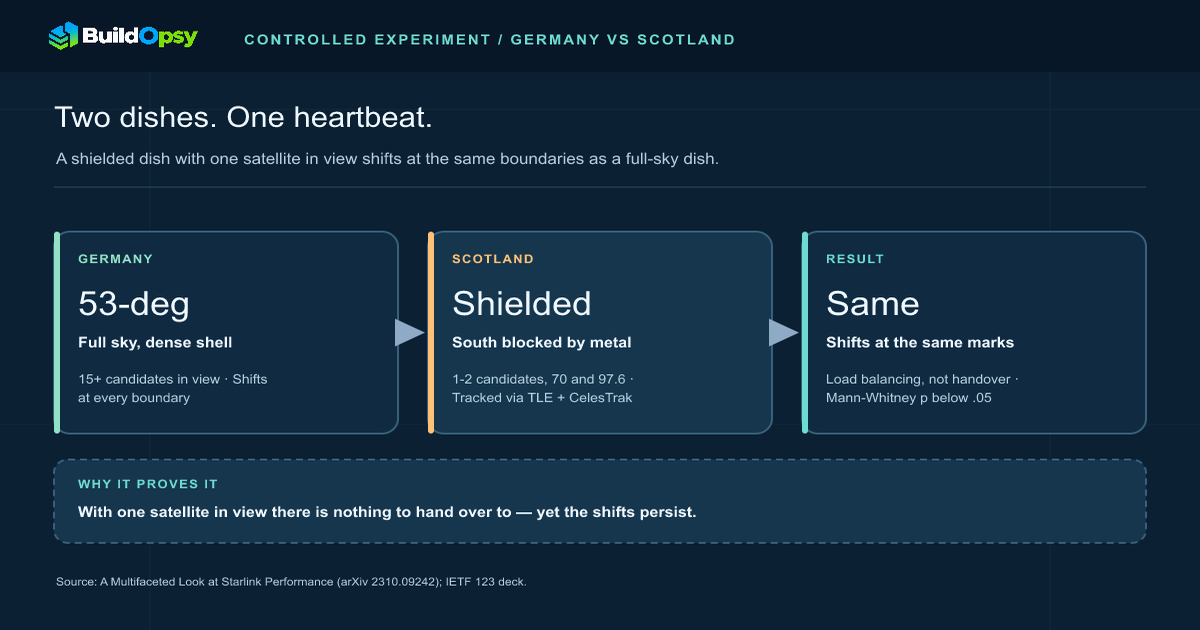
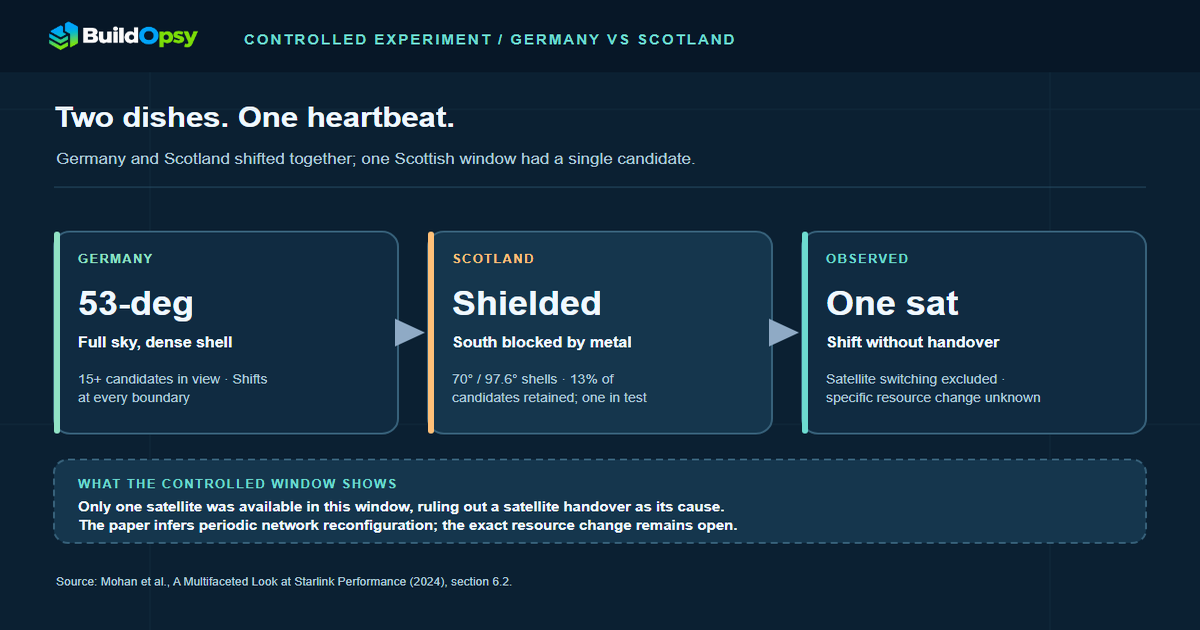
fix: final source alignment in Starlink pair - scheduler measured preferences and model accuracy, AAU boundary windows in-cost-section, named teams, handover-ruled-out framing synced across copy and experiment figure

diff --git a/system-design/starlink-15-second-scheduler-teardown.html b/system-design/starlink-15-second-scheduler-teardown.html
@@ -3,12 +3,12 @@
 <head>
   <meta charset="UTF-8">
   <meta name="viewport" content="width=device-width, initial-scale=1.0">
-  <meta name="description" content="Starlink reallocates satellites to terminals every 15 seconds on boundaries synchronized worldwide. Teardown of the global scheduler, the shielded-dish proof it is load balancing not handover, and what the rhythm costs realtime apps.">
+  <meta name="description" content="Starlink reallocates satellites to terminals every 15 seconds on boundaries synchronized worldwide. Teardown of the global scheduler, the shielded-dish experiment that rules out handover, and what the rhythm costs realtime apps.">
   <meta name="author" content="Mukul Kumar Mishra">
   <link rel="canonical" href="https://buildopsy.com/system-design/starlink-15-second-scheduler-teardown.html">
   <meta property="og:type" content="article">
   <meta property="og:title" content="Starlink's 15-Second Heartbeat: The Global Scheduler Moving Every Dish at Once">
-  <meta property="og:description" content="Every 15 seconds, every dish gets re-examined — at :12, :27, :42 and :57 past the minute, worldwide. Why it is load balancing, not handover, and what the rhythm bills.">
+  <meta property="og:description" content="Every 15 seconds, every dish gets re-examined — at :12, :27, :42 and :57 past the minute, worldwide. Handover ruled out at the dish, a global load balancer found — and what the rhythm bills.">
   <meta property="og:image" content="https://buildopsy.com/images/articles/starlink-scheduler-meme.png">
   <meta property="og:image:alt" content="Diagram of Starlink's 15-second global scheduler: reallocation slots, synchronized boundaries, and single-satellite proof">
   <meta property="og:image:type" content="image/png">
@@ -29,7 +29,7 @@
   <script>if (localStorage.getItem('pf-theme') !== 'light') document.documentElement.classList.add('dark');</script>
   <link rel="stylesheet" href="../css/styles.css">
   <script src="https://unpkg.com/lucide@latest" defer></script>
-  <script type="application/ld+json">{"@context":"https://schema.org","@type":"TechArticle","headline":"Starlink's 15-Second Heartbeat: The Global Scheduler Moving Every Dish at Once","description":"A source-led teardown of Starlink's globally synchronized 15-second scheduler: slot allocation, the shielded-dish experiment proving load balancing over handover, hierarchical controllers, and realtime-app impact.","author":{"@type":"Person","name":"Mukul Kumar Mishra","url":"https://buildopsy.com/about.html#author-mukul"},"datePublished":"2026-10-11","dateModified":"2026-10-13","mainEntityOfPage":{"@type":"WebPage","@id":"https://buildopsy.com/system-design/starlink-15-second-scheduler-teardown.html"},"keywords":"Starlink scheduler, LEO handover, load balancing, 15-second reconfiguration, satellite MAC, CelesTrak, Mukul Kumar Mishra","publisher":{"@type":"Organization","name":"Buildopsy","url":"https://buildopsy.com/","logo":{"@type":"ImageObject","url":"https://buildopsy.com/images/logo.png"}},"image":"https://buildopsy.com/images/articles/starlink-scheduler-meme.png"}</script>
+  <script type="application/ld+json">{"@context":"https://schema.org","@type":"TechArticle","headline":"Starlink's 15-Second Heartbeat: The Global Scheduler Moving Every Dish at Once","description":"A source-led teardown of Starlink's globally synchronized 15-second scheduler: slot allocation, the shielded-dish experiment ruling out handover, hierarchical controllers, and realtime-app impact.","author":{"@type":"Person","name":"Mukul Kumar Mishra","url":"https://buildopsy.com/about.html#author-mukul"},"datePublished":"2026-10-11","dateModified":"2026-10-13","mainEntityOfPage":{"@type":"WebPage","@id":"https://buildopsy.com/system-design/starlink-15-second-scheduler-teardown.html"},"keywords":"Starlink scheduler, LEO handover, load balancing, 15-second reconfiguration, satellite MAC, CelesTrak, Mukul Kumar Mishra","publisher":{"@type":"Organization","name":"Buildopsy","url":"https://buildopsy.com/","logo":{"@type":"ImageObject","url":"https://buildopsy.com/images/logo.png"}},"image":"https://buildopsy.com/images/articles/starlink-scheduler-meme.png"}</script>
 </head>
 <body class="site">
   <header class="topbar"><div class="wrap"><a class="brand brand-logo" href="../index.html"><img loading="eager" fetchpriority="high" decoding="async" class="logo-dark" src="../images/logo.png" alt="Buildopsy" width="2078" height="757"><img loading="eager" decoding="async" class="logo-light" src="../images/logo-white.png" alt="Buildopsy" width="1894" height="548" aria-hidden="true"></a><nav class="topnav" id="topnav"><a href="index.html" class="on">System Design</a><a href="ai-slop.html">AI Slop Watch</a><a href="../calculators.html">Calculators</a><a href="course.html">Courses</a><a href="../pricing.html">Pricing</a></nav><div class="topbar-actions"><button class="iconbtn" id="themeToggle" title="Toggle light/dark theme" aria-label="Toggle theme"><i data-lucide="sun" class="ic-sun"></i><i data-lucide="moon" class="ic-moon" style="display:none;"></i></button><button class="iconbtn navToggle" id="navToggle" aria-label="Toggle menu" aria-expanded="false"><i data-lucide="menu"></i></button></div></div></header>
@@ -39,7 +39,7 @@
       <div style="display:flex;flex-wrap:wrap;align-items:center;gap:12px;margin-bottom:16px;"><span class="fl-tag">Satellite Network Scheduling</span><span class="chip">October 2026</span><span class="chip">19 min read</span></div>
       <h1 class="page-title" style="font-family:var(--font-serif);font-weight:700;font-size:clamp(1.8rem,4vw,2.6rem);color:var(--heading);line-height:1.25;">Starlink's 15-Second Heartbeat: The Global Scheduler Moving Every Dish at Once</h1>
       <p style="font-family:var(--font-serif);font-size:1.08rem;line-height:1.75;color:var(--mist);margin:14px 0 0;">The July <a href="starlink-core-network-outage-postmortem.html">core outage</a> showed what happens when Starlink's ground stops; the <a href="starlink-latency-whitepaper-teardown.html">latency teardown</a> priced the milliseconds when it runs. This third piece explains the rhythm underneath both: every 15 seconds, at the 12th, 27th, 42nd, and 57th second of every minute, the network re-examines every dish on Earth at once.</p>
-      <p class="fl-desc" style="margin-top:12px;"><strong>TL;DR:</strong> Independent measurement teams found Starlink reallocating satellites to terminals in globally synchronized 15-second slots, with latency and throughput shifting at slot boundaries worldwide. A shielded-dish experiment proves the shifts are load balancing, not satellite handover — and that distinction decides how you monitor, what transport you run, and where your p99 goes. SpaceX never published the algorithm, so internals below are labeled as measured, inferred, or modeled.</p>
+      <p class="fl-desc" style="margin-top:12px;"><strong>TL;DR:</strong> Independent measurement teams found Starlink reallocating satellites to terminals in globally synchronized 15-second slots, with latency and throughput shifting at slot boundaries worldwide. A shielded-dish experiment rules satellite handover out, and the allocation evidence points to a global load balancer as the surviving explanation — and that distinction decides how you monitor, what transport you run, and where your p99 goes. SpaceX never published the algorithm, so internals below are labeled as measured, inferred, or modeled.</p>
       <div class="grid4" style="margin-top:24px;"><div class="stat" style="padding:14px;"><div class="lbl">Slot length</div><div style="font-weight:700;color:var(--paper);margin-top:4px;font-size:0.9rem;">15 seconds</div></div><div class="stat" style="padding:14px;"><div class="lbl">Boundaries</div><div style="font-weight:700;color:var(--paper);margin-top:4px;font-size:0.9rem;">:12/:27/:42/:57</div></div><div class="stat" style="padding:14px;"><div class="lbl">Sync scope</div><div style="font-weight:700;color:var(--paper);margin-top:4px;font-size:0.9rem;">Global</div></div><div class="stat" style="padding:14px;"><div class="lbl">Cause</div><div style="font-weight:700;color:var(--paper);margin-top:4px;font-size:0.9rem;">Load balancing</div></div></div>
       <p style="font-family:var(--font-body);font-size:0.78rem;color:var(--mist);margin:18px 0 0;">By Mukul Kumar Mishra · Evidence-led system design teardown · Updated October 13, 2026</p>
     </header>
@@ -58,12 +58,12 @@
         <div class="callout"><strong>The uncomfortable truth:</strong> the obvious explanation had a control experiment run against it, and lost. Every monitoring dashboard that labels these shifts "handover" is misdiagnosing the network every 15 seconds, four times a minute, forever.</div>
       </section>
       <section><h2>2. The Architecture: Two Controllers, One Rhythm</h2>
-        <p>The measurement papers converge on a two-tier design familiar from terrestrial WAN traffic engineering. First, a global controller allocates satellites to terminals every 15 seconds, weighing load, geospatial conditions, and even satellite charge state; a SpaceX FCC filing describing such a scheduler predates the measurements, and the observed periodicity matches it. Second, an on-satellite controller schedules the flows of its assigned terminals — visible as parallel latency bands a few milliseconds apart inside each slot, the signature of round-robin medium-access control, also consistent with the FCC filing.</p>
+        <p>The measurement papers converge on a two-tier design familiar from terrestrial WAN traffic engineering. First, a global controller allocates satellites to terminals every 15 seconds, weighing load, geospatial conditions, and even satellite charge state; a SpaceX FCC filing describing such a scheduler predates the measurements, and the observed periodicity matches it. Measured, its politics become arithmetic: with 35–44 satellites visible per slot on average, the scheduler picks the high ones (median elevation 22.9° above the satellites it passes over), tilts its picks north of the dish, prefers newer launch batches, and chooses sunlit satellites 72.3% of the time when a sunlit option exists — a policy that reads as energy and hardware-longevity budgeting, not geography alone. Second, an on-satellite controller schedules the flows of its assigned terminals — visible as parallel latency bands a few milliseconds apart inside each slot, the signature of round-robin medium-access control, also consistent with the FCC filing.</p>
         <p>The slot has geometry. IETF measurement decks report terminals assigned in 15-second slots with phased-array tracking across 11 degrees of arc per slot, each spacecraft splitting 2,000 MHz of downlink into eight 250 MHz channels across dozens of spot beams. Within a slot, latency drifts gently with the satellite's track; at the boundary, the allocation can change wholesale. Stable inside, step at the edge — that is a scheduler's waveform, not a handover's.</p>
         <p>Note the resonance nobody at SpaceX has claimed: the latency whitepaper's instrument samples millions of routers every 15 seconds — the same cadence as the allocation slot. Treat that as coincidence of engineering convenience until proven otherwise, but measure in 15-second bins regardless. Binning anywhere else smears the boundaries and hides the mechanism, which is why coarse monitoring never sees the heartbeat at all.</p>
       </section>
       <section><h2>3. The Mechanism: Why It Cannot Be Handover</h2>
-        <p>Take the constraints as a proof. Handover requires an alternative: a dish must move from one satellite to another. The shielded Scottish dish, verified by orbital tracking to hold a single candidate through entire intervals, shifts and drops at boundaries anyway. A cause requiring two satellites cannot explain an effect observed with one. The allocation papers add the positive case: gRPC obstruction-map XORs show assignments changing slot to slot, and a trained scheduler model using azimuth, elevation, age, and sunlit status — preferring newer sunlit satellites — reproduces allocation choices. Load, geometry, and power state decide; motion merely provides the candidates. The newest evidence is metrological: an Aalborg University team probing at 500 Hz across multi-month traces found the rhythm's phase alignment stable over months and concluded the clocking is pre-planned, not emergent — and measured the boundary damage directly, with spikes averaging about 74ms above the interior mean, concentrated in roughly the first 140ms and the last 75ms of each slot.</p>
+        <p>Take the constraints as a proof. Handover requires an alternative: a dish must move from one satellite to another. The shielded Scottish dish, verified by orbital tracking to hold a single candidate through entire intervals, shifts and drops at boundaries anyway. A cause requiring two satellites cannot explain an effect observed with one. The allocation papers add the positive case: gRPC obstruction-map XORs show assignments changing slot to slot, and a trained scheduler model over azimuth, elevation, age, and sunlit status reproduces 65% of allocations within its top five guesses — three times the 22% baseline. Load, geometry, and power state decide; motion merely provides the candidates. The newest evidence is metrological: an Aalborg University team probing at 500 Hz across multi-month traces found the rhythm's phase alignment stable over months and concluded the clocking is pre-planned, not emergent — and measured the boundary damage directly, with spikes averaging about 74ms above the interior mean, concentrated in roughly the first 140ms and the last 75ms of each slot.</p>
         <p>State the monitoring inequality plainly. Let H be boundary shifts explainable by handover and L be shifts under single-candidate conditions. The measurements show L &gt; 0 at every boundary, so handover explains at most a fraction of the rhythm — and the globally synchronized timing across different satellites, gateways, and PoPs pushes that fraction toward decoration. Design your alerts for L, the load-balancing term, because it fires four times a minute whether or not any handover occurs.</p>
         <p>What the algorithm optimizes stays undisclosed — SpaceX never published it, and the papers model its outputs, not its weights. The honest sentence: a global scheduler reallocates every 15 seconds on fixed minute boundaries; everything about its objective function is inference. Papers that claim more than the XOR maps and the statistics prove should be read as modeling, including the preference weights.</p>
         <div class="tip"><strong>Alert on boundaries, not noise:</strong> tag every latency and loss alert with its position inside the 15-second slot. Alerts clustering at :12/:27/:42/:57 are the scheduler announcing itself; only off-boundary alerts deserve the handover runbook.</div>
@@ -73,7 +73,7 @@
         <p>That is why the transport guidance in the <a href="starlink-latency-whitepaper-teardown.html">latency teardown</a> matters doubly here: BBR-class model-based control survives scheduled loss that CUBIC treats as verdict, and the gap between them is measurable as goodput during boundary seconds. Run the two side by side across several boundaries; the difference is the scheduler tax your application currently pays, itemized.</p>
         <p>For anyone sizing realtime service over Starlink — gaming, trading, teleoperation, and the frontline drone links from the <a href="starlink-core-network-outage-postmortem.html">outage teardown</a> — the design number is not the median but the boundary step: how far latency and throughput move at the marks, and whether the application's deadlines survive that step four times a minute. Size for the boundary, not the slot. Test recovery with the <a href="../tools/queue-backlog-drain-calculator.html">backlog drain calculator</a>: each reallocation is a micro-burst the queue must absorb before the next mark arrives.</p>
       </section>
-      <figure class="article-figure pm-meme"><img loading="lazy" decoding="async" src="../images/articles/starlink-scheduler-experiment.svg" alt="Diagram of the Germany versus Scotland shielding experiment proving load balancing over handover" width="1200" height="680"><figcaption>Figure 2. The experiment in one diagram. Full sky versus shielded sky, same shifts at the same marks — handover cannot explain it.</figcaption></figure>
+      <figure class="article-figure pm-meme"><img loading="lazy" decoding="async" src="../images/articles/starlink-scheduler-experiment.svg" alt="Diagram comparing full-sky and shielded Starlink measurements: periodic shifts persisted during a tested single-satellite window, ruling out satellite handover as its cause; the specific network reconfiguration is inferred." width="1200" height="680"><figcaption>Figure 2. The controlled result: the full-sky and shielded setups show shifts at the same marks. In a selected window with a single satellite candidate, handover cannot explain the change. The paper infers periodic network reconfiguration but does not identify the precise resource change.</figcaption></figure>
       <section><h2>5. Field Glossary: Eight Terms This Rhythm Teaches</h2>
         <p>Scheduler writing punishes the word "handover" first. Eight terms, each tied to what the papers measured:</p>
         <table><thead><tr><th>Term</th><th>What it means here</th><th>Why it mattered</th></tr></thead><tbody>

diff --git a/system-design/starlink-latency-whitepaper-teardown.html b/system-design/starlink-latency-whitepaper-teardown.html
@@ -68,7 +68,7 @@
         <div class="tip"><strong>Price your own floor first:</strong> compute the speed-of-light round trip for your longest path before touching any code. Every millisecond above that number has an owner — a queue, a route, or a default — and owners can be billed.</div>
       </section>
       <section><h2>4. The Ground and the Air: PoPs Plus Fronthaul</h2>
-        <p>Ground latency is fiber distance wearing a planning algorithm. Traffic landing at a gateway still has to reach an internet connection point, and the paper admits the 2024 layout was often wrong — hence six new US PoPs plus gateway-location optimization and allocation algorithms that place users at the nearest optimal PoP. This is the cheapest millisecond in networking: no physics changed, no hardware launched, just shorter dirt paths and smarter assignment. Independent studies corroborate the leverage, finding single-digit gateway-to-PoP latencies where placement is right and long detours (a Reunion Island dish served via Frankfurt) where it is not.</p>
+        <p>Ground latency is fiber distance wearing a planning algorithm. Traffic landing at a gateway still has to reach an internet connection point, and the paper admits the 2024 layout was often wrong — hence six new US PoPs plus gateway-location optimization and allocation algorithms that place users at the nearest optimal PoP. This is the cheapest millisecond in networking: no physics changed, no hardware launched, just shorter dirt paths and smarter assignment. Independent studies corroborate the leverage, finding single-digit gateway-to-PoP latencies where placement is right and long detours where it is not — the measured outlier being a Réunion Island dish served via a Frankfurt PoP roughly 9,000 km away, which still beat the island's own submarine-fiber route by about 60ms.</p>
         <p>Fronthaul — the radio scheduling between satellite and users — is the shared-wireless tax. One beam serves many terminals, and the paper calls scheduling latency inherent yet optimizable, a focus of the preceding months. IETF measurements add texture: satellites assign user terminals in 15-second slots, and independent dishes show globally synchronized performance shifts at 15-second boundaries even with a single satellite in view — load balancing, not handover. A 15-second global scheduler means latency has a heartbeat, and any application with sub-second expectations (gaming, real-time trading, congestion control) lives inside that rhythm whether it knows it or not. The full mechanism — slot allocation, the shielded-dish proof, and the transport consequences — is torn down in the companion <a href="starlink-15-second-scheduler-teardown.html">15-second scheduler piece</a>.</p>
         <div class="callout"><strong>The lesson that routes:</strong> gateways decide where packets land, PoPs decide how far they drive, and the scheduler decides when they leave. Two of the three are software. Bill them accordingly.</div>
       </section>
